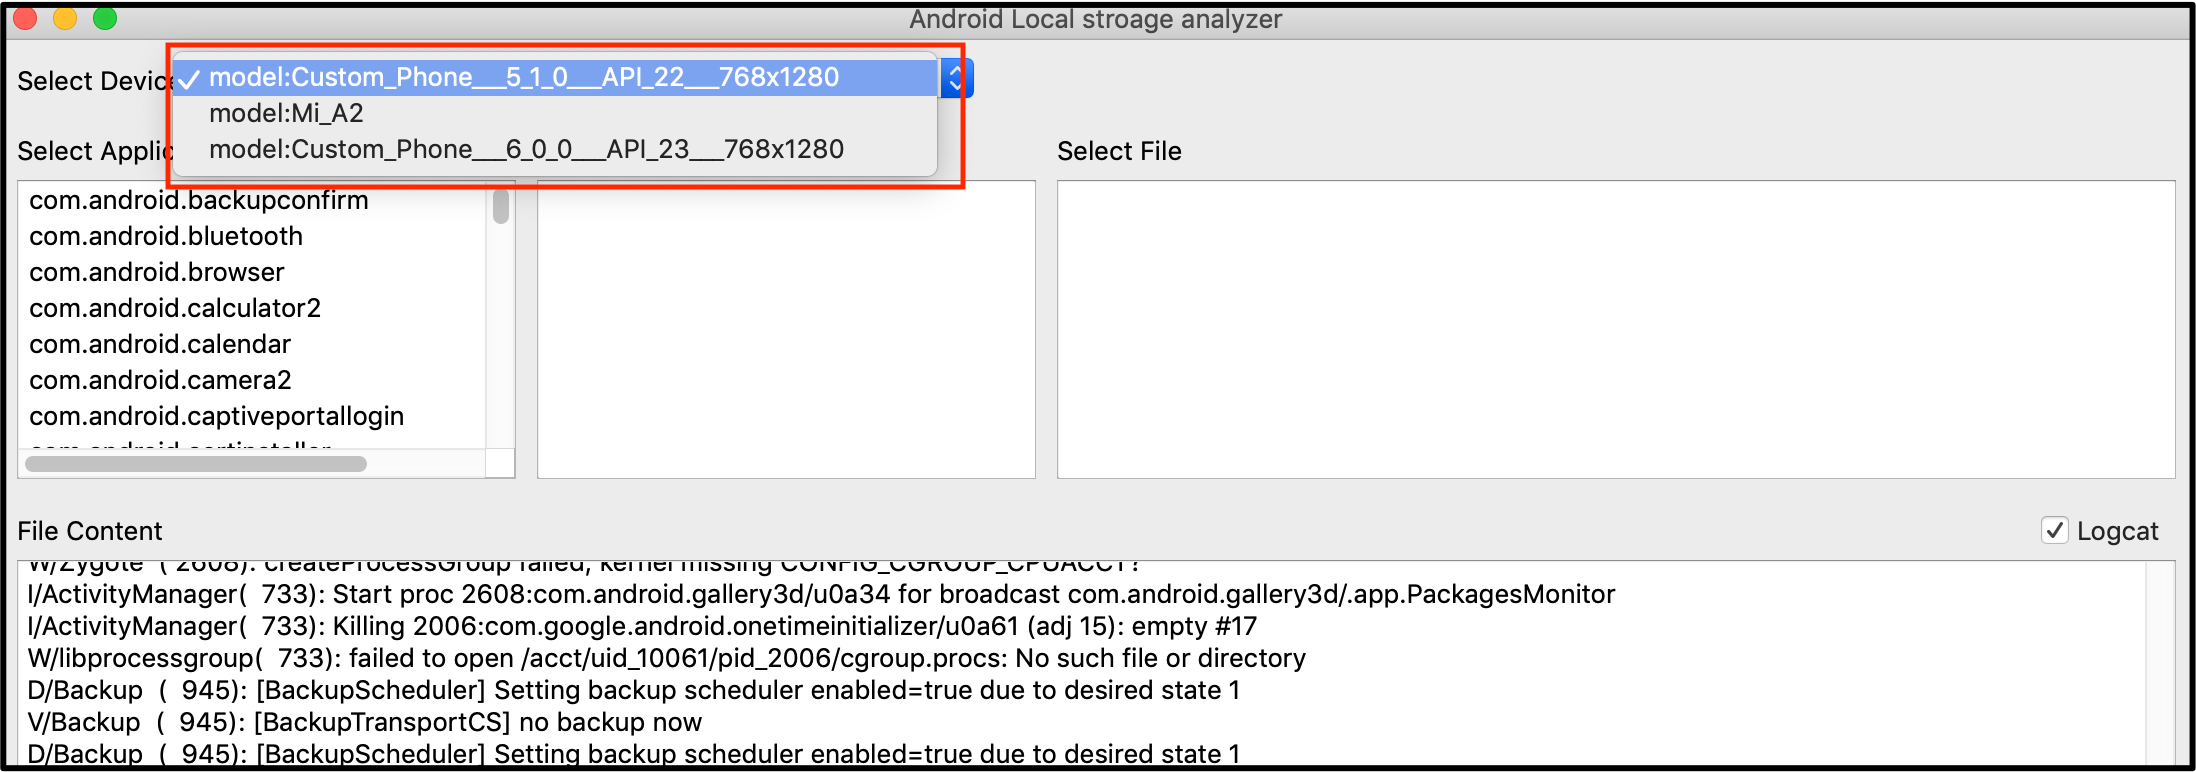
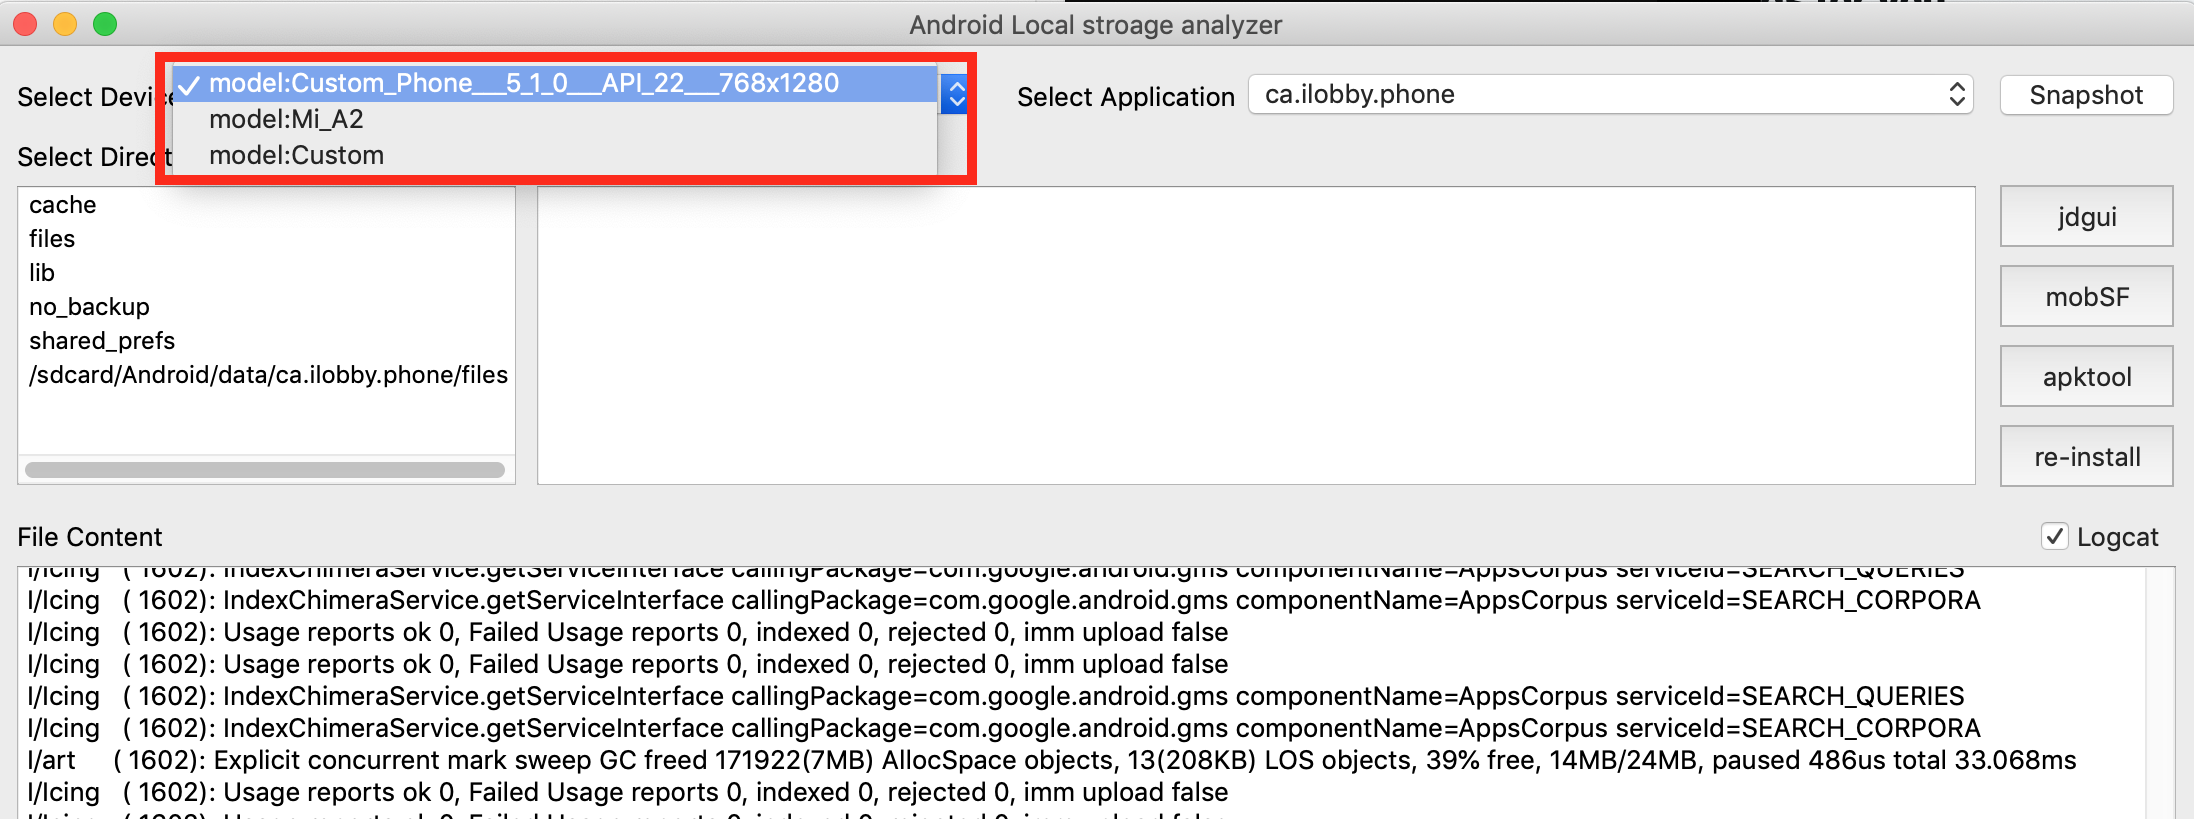
README.md update

Changed region(s): [[0.0, 0.0, 1.0, 1.0]]

diff --git a/main.py b/main.py
@@ -9,6 +9,7 @@ import os
 from datetime import datetime
 import urllib
 import html
+import webbrowser 
 from gui import *
 from banner import *
 from logcat import *

diff --git a/README.md b/README.md
@@ -15,11 +15,26 @@ It will list down all the devices connected to the device as shown in Figure:
 It will start fetching logcat logs for the selected device as shown in Figure:
 ![Usage](Usage/2.png)
 <br /> <br />
-To analyze the file content of the application, Select the file as shown in Figure:
+In order to analyze the application, select it from dropdown list as shown in Figure:
 ![Usage](Usage/3.png)
 <br /> <br />
-Analyze the sensitive information logcat logs as shown in Figure:
+To analyze the file content of the application, Select the file as shown in Figure:
 ![Usage](Usage/4.png)
+<br /> <br />
+Analyze the sensitive information logcat logs as shown in Figure:
+![Usage](Usage/5.png)
+<br /> <br />
+In order to view application source in JD-GUI, click on "jdgui" button as shown in Figure:
+![Usage](Usage/6.png)
+<br /> <br />
+If the mobSF configured in the system and in order to open application with MobSF click on "mobSF" button as shown in Figure:
+![Usage](Usage/7.png)
+<br /> <br />
+In order to decompile application using apktool, click on "apktool" button as shown in Figure:
+![Usage](Usage/8.png)
+<br /> <br />
+In order to take application sandbox backup for future reference, click on "snapshot" button as shown in Figure:
+![Usage](Usage/9.png)
 <br /> <br />
 
 # Future Enhancement
@@ -37,7 +52,7 @@ Analyze the sensitive information logcat logs as shown in Figure:
 - [x] One click mobSF analysis (prerequisite: mobSF installation required) 
       Note: as of now update the mobSF endpoint in GlobalVariables.py and "mobSFURL" variable
 
-<br /> <br />
+<br />
 # References
 
 - https://stackoverflow.com/questions/11524586/accessing-logcat-from-android-via-python
